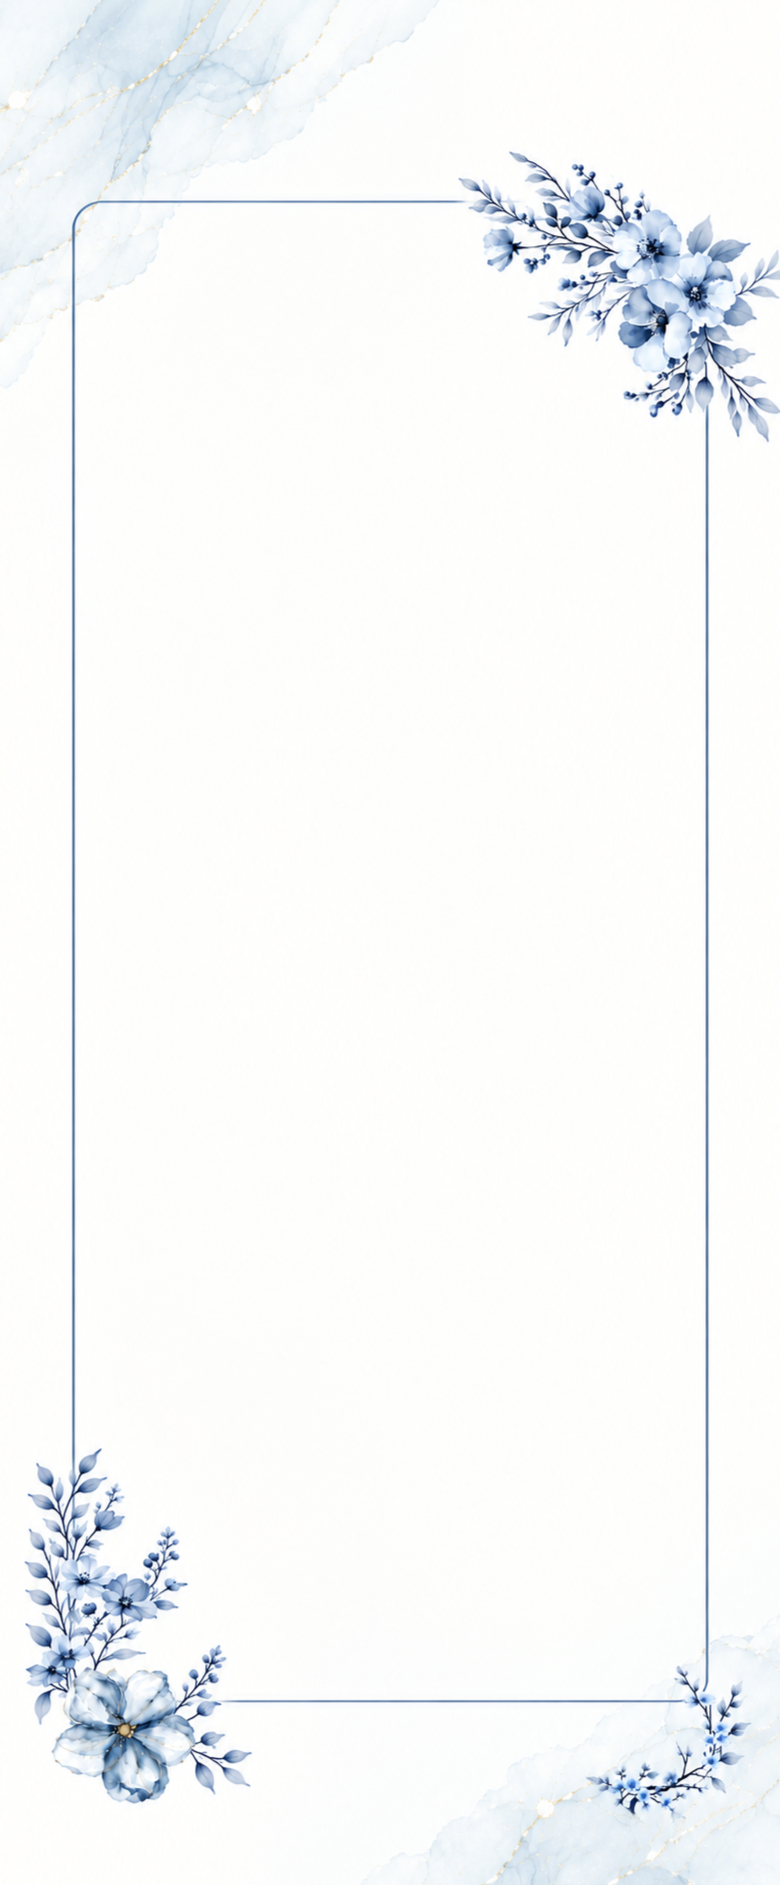
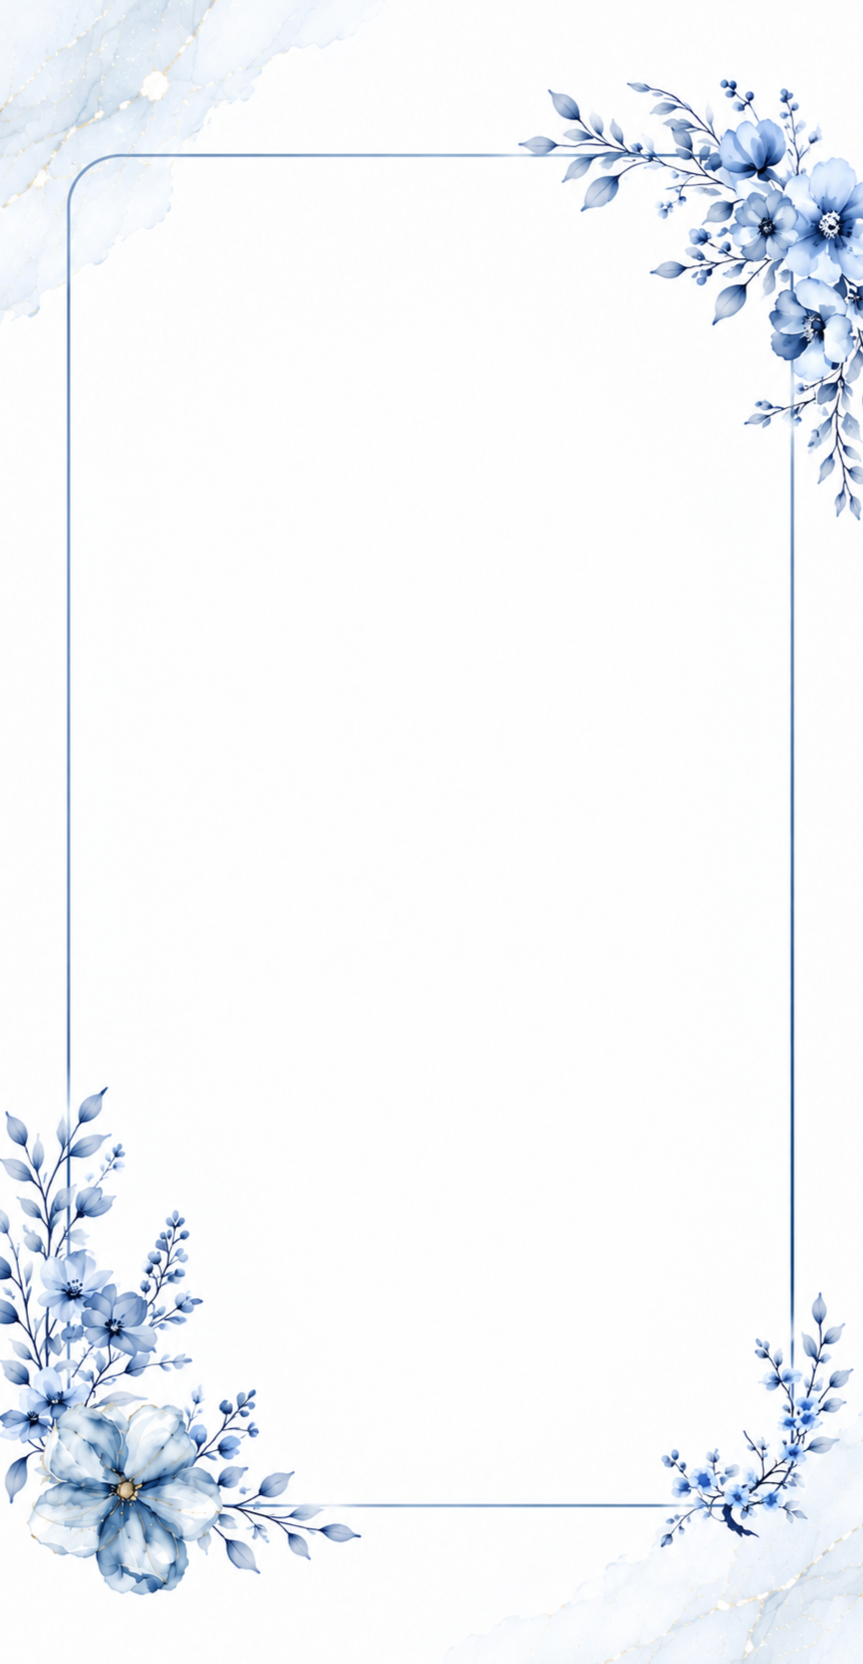
style: fix cover ui on phone view

diff --git a/components/CoverOverlay.tsx b/components/CoverOverlay.tsx
@@ -31,7 +31,7 @@ export const CoverOverlay: React.FC<CoverOverlayProps> = ({ guestName, isOpen, i
           alt="Background Bingkai Portrait"
           fill
           priority
-          className="object-cover object-center"
+          className="w-full h-full object-fill"
           sizes="100vw"
         />
       </div>
